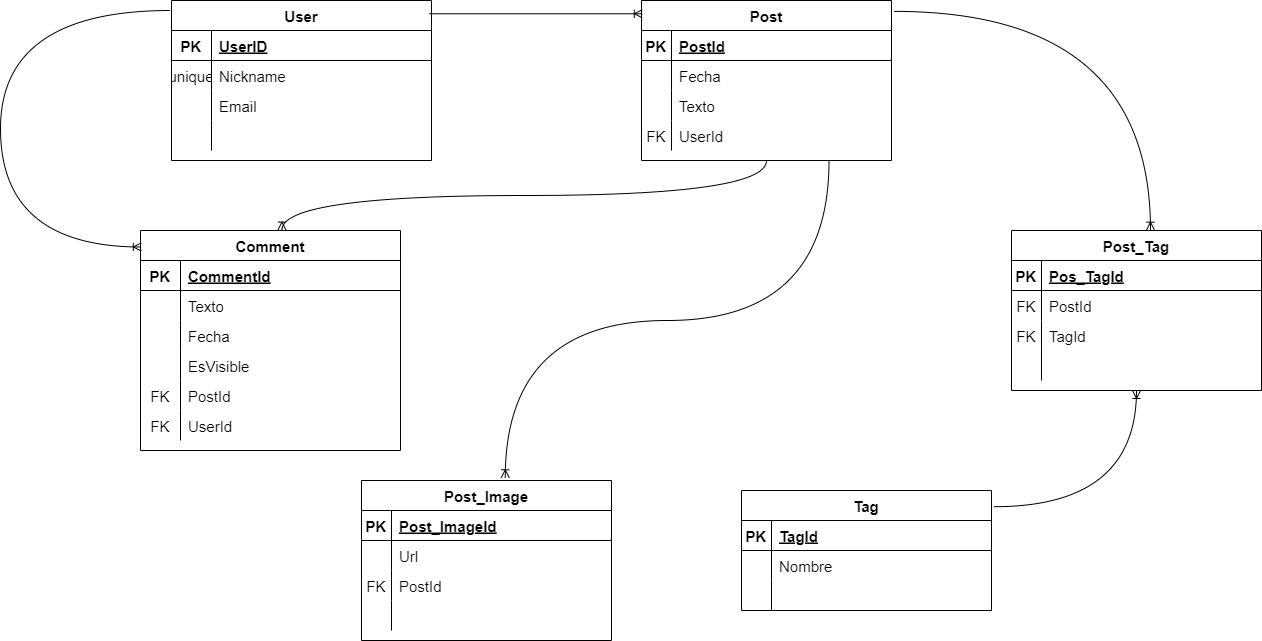
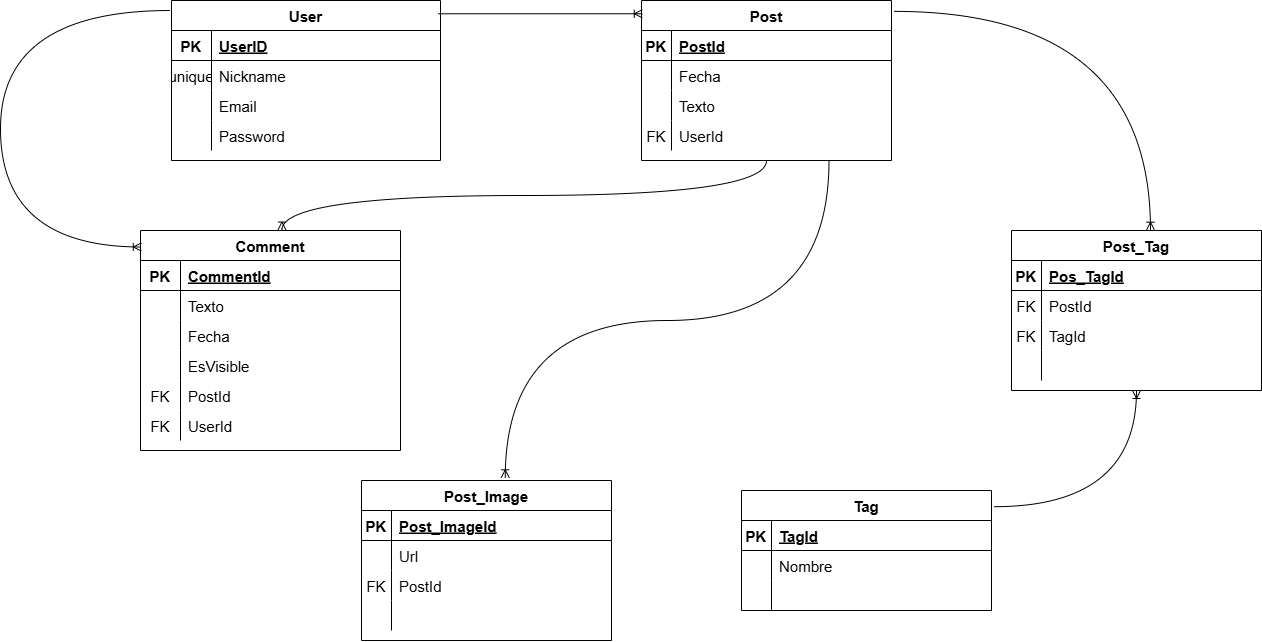
se agrego virtual, los der y las modificaciones para que se vean los comentarios de una publicacion

diff --git a/models/post.js b/models/post.js
@@ -36,6 +36,17 @@ const postSchema = new mongoose.Schema(
   },
 );
 
+//agregamos virtual para invertir la relacion con Comment (sirve como un atajo, no se guarda en la base de datos pero se mantiene porque usamos redis )
+
+postSchema.virtual("comentarios", {
+  ref: "Comment", // la referencia del modelo
+  localField: "_id", // _id del post
+  foreignField: "post", // el nombre del campo que está en comment
+});
+
+postSchema.set("toJSON", { virtuals: true, id: false }); // convertimos el resultado de la consulta a json -- deshabilitamos el id para que no salga duplicado
+//postSchema.set("toObject", { virtuals: true, id: false }); // convertimos el resultado de la consulta a un objeto, si es que hace falta debugear -- deshabilitamos el id para que no salga duplicado
+
 const Post = mongoose.model("Post", postSchema);
 
 module.exports = Post;

diff --git a/controllers/posts.controllers.js b/controllers/posts.controllers.js
@@ -28,7 +28,9 @@ const obtenerPosts = async (req, res) => {
 
 const obtenerPost = async (req, res) => {
   try {
-    return res.status(200).json(req.post);
+    const postConComentarios = await req.post.populate("comentarios"); // ahora muestra los comentarios
+
+    return res.status(200).json(postConComentarios);
   } catch (error) {
     console.error(error);
     return res.status(500).json({ message: "Error al obtener el post" });
@@ -155,7 +157,7 @@ const obtenerPostsDeUserId = async (req, res) => {
   try {
     const userId = req.usuario._id;
 
-    const posts = await Post.find({ autor: userId });
+    const posts = await Post.find({ autor: userId }).populate("comentarios");
     return res.status(200).json(posts);
   } catch (error) {
     console.error(error);
@@ -165,7 +167,7 @@ const obtenerPostsDeUserId = async (req, res) => {
 
 const obtenerComentariosDeUnPost = async (req, res) => {
   try {
-    const postId = req.post._id; 
+    const postId = req.post._id;
 
     //  VALIDACIÓN DE TIEMPO: Calculamos la fecha límite (6 meses por defecto)
     const mesesLimite = parseInt(process.env.COMMENT_MAX_AGE_MONTHS) || 6;